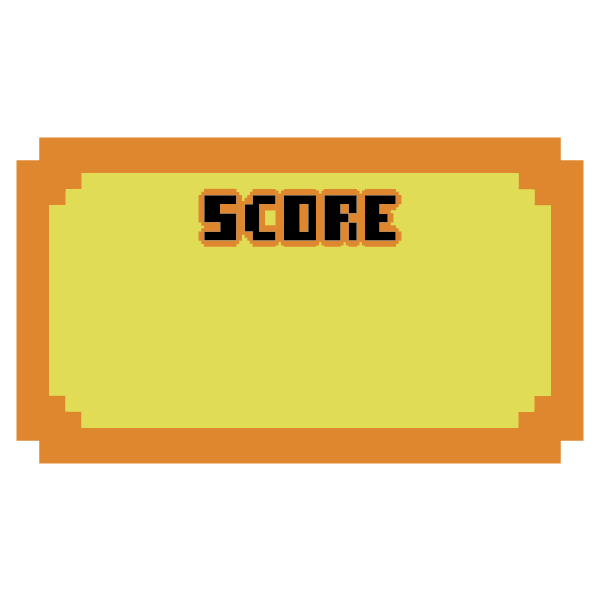
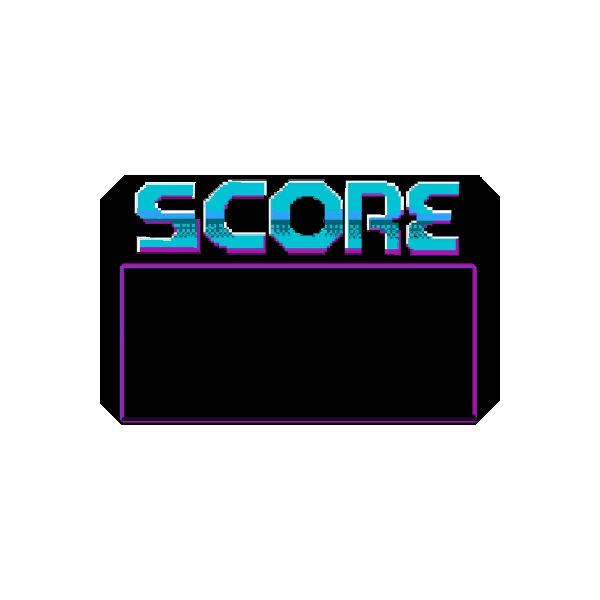
Update some design assets.

diff --git a/source/core/src/main/com/deco2800/game/components/score/ScoreDisplay.java b/source/core/src/main/com/deco2800/game/components/score/ScoreDisplay.java
@@ -1,6 +1,8 @@
 package com.deco2800.game.components.score;
 
+import com.badlogic.gdx.graphics.Color;
 import com.badlogic.gdx.graphics.Texture;
+import com.badlogic.gdx.graphics.g2d.BitmapFont;
 import com.badlogic.gdx.graphics.g2d.SpriteBatch;
 import com.badlogic.gdx.scenes.scene2d.ui.Image;
 import com.badlogic.gdx.scenes.scene2d.ui.Label;
@@ -47,7 +49,7 @@ public class ScoreDisplay extends UIComponent {
         tableForText = new Table();
         tableForText.bottom().right();
         tableForText.setFillParent(true);
-        tableForText.padBottom(60).padRight(80);
+        tableForText.padBottom(60).padRight(60);
 
         tableForBoard = new Table();
         tableForBoard.bottom().right();
@@ -62,8 +64,8 @@ public class ScoreDisplay extends UIComponent {
         // Score text
         int score = 0;
         CharSequence scoreText = "" + score;
-        scoreLabel = new Label(scoreText, skin, "large");
-
+        scoreLabel = new Label(scoreText, new Label.LabelStyle(new BitmapFont(), Color.GOLD));
+        scoreLabel.setFontScale(2f);
         tableForBoard.add(scoreBoard).size(boardSideLength);
         tableForText.add(scoreLabel);
         stage.addActor(tableForBoard);

diff --git a/source/core/src/main/com/deco2800/game/services/ScoreService.java b/source/core/src/main/com/deco2800/game/services/ScoreService.java
@@ -6,17 +6,27 @@ import org.slf4j.LoggerFactory;
 
 import static com.deco2800.game.files.UserScoreHistory.*;
 
-/** controls the game score */
+/** controls the game score
+ * */
 public class ScoreService {
     private static Logger logger = LoggerFactory.getLogger(ScoreService.class);
     private int bonus;
     private GameTime gametime;
 
+    /**
+     * Constructor of score service
+     * gametime is the basic score calculation parameter.
+     * bonus is other features bonus scores.
+     */
     public ScoreService() {
         gametime = new GameTime();
         bonus = 0;
     }
 
+    /**
+     * Add bonus points to the score
+     * @param bonus bonus points
+     */
     public void addToScore(int bonus) {
         this.bonus += bonus;
     }

diff --git a/source/core/src/main/com/deco2800/game/components/player/Bag.java b/source/core/src/main/com/deco2800/game/components/player/Bag.java
@@ -2,6 +2,8 @@ package com.deco2800.game.components.player;
 
 import com.deco2800.game.components.score.ScoringSystemV1;
 import com.deco2800.game.entities.Entity;
+import com.deco2800.game.services.ScoreService;
+import com.deco2800.game.services.ServiceLocator;
 
 import java.util.ArrayList;
 import java.util.Iterator;
@@ -43,7 +45,12 @@ public class Bag implements BagInterface {
         }
         entities.add(e);
         //when pick up one item, score will increase by 10 points.
+
+        //These two does not affect each other.
+        //old way
         scoringSystem.addToScore(10);
+        //alternative way
+        ServiceLocator.getScoreService().addToScore(10);
     }
     public void remove(Entity e) {
         entities.remove(e);

diff --git a/source/core/src/main/com/deco2800/game/components/score/ScoreHistoryDisplay.java b/source/core/src/main/com/deco2800/game/components/score/ScoreHistoryDisplay.java
@@ -61,7 +61,7 @@ public class ScoreHistoryDisplay extends UIComponent {
         boardTable.add(board).size(boardSideLength);
         buttonTable.add(mainMenuButton);
         Image bgImage = new Image(ServiceLocator.getResourceService()
-                .getAsset("images/achievements/achievementBackground.png", Texture.class));
+                .getAsset("images/historyScoreBoardBg.png", Texture.class));
         bgTable = new Table();
         bgTable.setFillParent(true);
         bgTable.add(bgImage);

diff --git a/source/core/src/main/com/deco2800/game/screens/HistoryScoreScreen.java b/source/core/src/main/com/deco2800/game/screens/HistoryScoreScreen.java
@@ -22,7 +22,7 @@ public class HistoryScoreScreen extends ScreenAdapter {
     private final Renderer renderer;
     private final ScoreHistoryDisplay scoreHistoryDisplay;
     private static final String[] historyScoreTextures =
-            {"images/historyScoreBoard.png", "images/achievements/achievementBackground.png"};
+            {"images/historyScoreBoard.png", "images/historyScoreBoardBg.png"};
 
 
     public HistoryScoreScreen(GdxGame game) {
